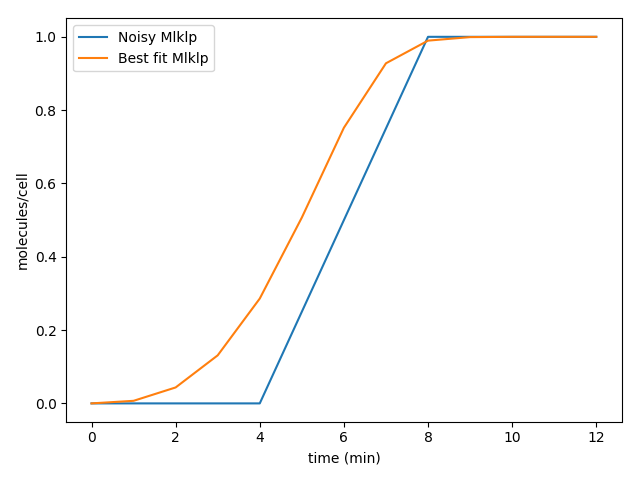
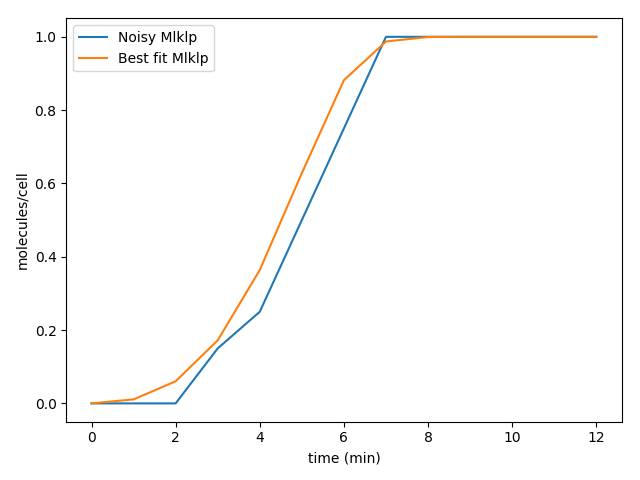
fit not great, cost function 2, rerunning calibration with a20, c8 and wt, 50 particles and 5000 iterations

diff --git a/simplepso/examples/necro_pso_kd.py b/simplepso/examples/necro_pso_kd.py
@@ -56,11 +56,11 @@ a20y = np.array([0.,0., 0.25, 0.5, 0.75, 1., 1., 1., 1., 1., 1., 1., 1.])
 fdx = np.array([0.,   1.,   2.,   3.,   4.,   5.,   6.,   7.,   8.,   9.,  10., 11.,  12.])
 fdy = np.array([0., 0., 0.,0.25, 0.5, 0.75, 1., 1., 1., 1., 1., 1., 1.])
 
-#C8 Data switching at 3
+#C8 Data switching at 4
 c8x = np.array([0.,   1.,   2.,   3.,   4.,   5.,   6.,   7.,   8.,   9.,  10., 11.,  12.])
-c8y = np.array([0.,0., 0.25, 0.5, 0.75, 1., 1., 1., 1., 1., 1., 1., 1.])
+c8y = np.array([0., 0., 0.,0.25, 0.5, 0.75, 1., 1., 1., 1., 1., 1., 1.])
 
-data = collections.OrderedDict([('wt', wty), ('a20', a20y),('fd', fdy), ('c8', c8y)])
+data = collections.OrderedDict([('wt', wty), ('a20', a20y), ('c8', c8y)])
 # data = collections.OrderedDict()
 # data = {'wt': wty, 'a20': a20y, 'td': tdy, 'fd': fdy, 'c8': c8y}
 # data = collections.OrderedDict(sorted(data.items(), key = lambda t:t[1]))
@@ -108,18 +108,18 @@ def display(parameter_2):
     ysim_array11 = result.observables[0]['MLKLa_obs']
     ysim_array22 = result.observables[1]['MLKLa_obs']
     # ysim_array33 = result.observables[2]['MLKLa_obs']
-    ysim_array44 = result.observables[2]['MLKLa_obs']
-    ysim_array55 = result.observables[3]['MLKLa_obs']
+    # ysim_array44 = result.observables[2]['MLKLa_obs']
+    ysim_array55 = result.observables[2]['MLKLa_obs']
 
     # ysim_array = extract_records(solver.yobs, obs_names)
     ysim_norm11 = normalize(ysim_array11)
     ysim_norm22 = normalize(ysim_array22)
     # ysim_norm33 = normalize(ysim_array33)
-    ysim_norm44 = normalize(ysim_array44)
+    # ysim_norm44 = normalize(ysim_array44)
     ysim_norm55 = normalize(ysim_array55)
 
 
-    ysim = collections.OrderedDict([('wt_sim', ysim_norm11), ('a20_sim', ysim_norm22), ('fd_sim', ysim_norm44), ('c8_sim', ysim_norm55)])
+    ysim = collections.OrderedDict([('wt_sim', ysim_norm11), ('a20_sim', ysim_norm22),('c8_sim', ysim_norm55)])
     # ysim = collections.OrderedDict(sorted(ysim.items(), key=lambda t: t[1]))
 
     # solver1.run(param_values)
@@ -133,8 +133,8 @@ def display(parameter_2):
 
     # colors = [cmap(i) for i in np.linspace(0, 1, 5)]
     plt.figure()
-    c = ['red', 'green', 'black', 'orange']
-    d = ['red', 'green', 'black', 'orange']
+    c = ['red', 'green', 'black']
+    d = ['red', 'green', 'black']
     # colors = ['red', 'black', 'green', 'purple', 'orange']
     for i,j,k,l, in zip(data, ysim,c, d):
         # plt.plot(t, ysim_norm_3[:, 0], '-^', linewidth=5, label='Ideal P')
@@ -149,7 +149,7 @@ def display(parameter_2):
         plt.ylabel('molecules/cell')
         plt.xlabel('time (min)')
         plt.tight_layout()
-        plt.savefig('necroptosis_kds_td_65_5000.png', format='png')
+        plt.savefig('necroptosis_kds_td_50_5000.png', format='png')
     plt.show()
     plt.close()
 
@@ -195,8 +195,8 @@ def obj_function(params):
     mlkl_wt = np.array([0.05, 0.05, 0.05, 0.05, 0.05, 0.2, 0.05, 0.05, 0.05, 0.05, 0.05, 0.05, 0.05])
     mlkl_a20= np.array([0.05, 0.05,0.05, 0.2, 0.05, 0.05, 0.05, 0.05, 0.05, 0.05, 0.05, 0.05, 0.05])
     # mlkl_td = np.array([0.05, 0.05, 0.05, 0.05, 0.05, 0.2, 0.05, 0.05, 0.05, 0.05, 0.05, 0.05, 0.05])
-    mlkl_fd = np.array([0.05, 0.05, 0.05, 0.05, 0.2, 0.05, 0.05, 0.05, 0.05, 0.05, 0.05, 0.05, 0.05])
-    mlkl_c8 = np.array([0.05, 0.05, 0.05, 0.2, 0.05, 0.05, 0.05, 0.05, 0.05, 0.05, 0.05, 0.05, 0.05])
+    # mlkl_fd = np.array([0.05, 0.05, 0.05, 0.05, 0.2, 0.05, 0.05, 0.05, 0.05, 0.05, 0.05, 0.05, 0.05])
+    mlkl_c8 = np.array([0.05, 0.05, 0.05, 0.05, 0.2, 0.05, 0.05, 0.05, 0.05, 0.05, 0.05, 0.05])
 
     e1 = np.sum((ydata_norm - ysim_norm1) ** 2 / (mlkl_wt))
     e2 = np.sum((a20y - ysim_norm2) ** 2 / (mlkl_a20))
@@ -204,7 +204,7 @@ def obj_function(params):
     e4 = np.sum((fdy - ysim_norm4) ** 2 / (mlkl_fd))
     e5 = np.sum((c8y - ysim_norm5) ** 2 / (mlkl_c8))
 
-    error = e1 + e2 + e4 + e5
+    error = e1 + e2 + e5
     return error,
 
 

diff --git a/simplepso/examples/new_necro_pso_run.py b/simplepso/examples/new_necro_pso_run.py
@@ -13,43 +13,83 @@ from necro_pso_kd import display
 
 
 pars = np.array([
--3.000000000000000000e+00,
--5.190463909336157755e+00,
--6.000000000000000000e+00,
--3.033085665199291014e+00,
--4.616053825158105361e+00,
--6.356697247845557897e+00,
--2.168782791959026124e+00,
--3.058696627754011299e+00,
--3.205201740640312824e+00,
--3.000000000000000000e+00,
--2.098242182818893742e+00,
-1.251276896008965078e+00 ,
--3.360171520761877861e+00,
--4.443801585952002142e+00,
--3.002469573770719879e+00,
--1.516034355984396509e+00,
--3.999999762801250913e+00,
--4.253324882630691306e+00,
--3.307450965106528251e+00,
-1.542167033113567953e+00 ,
-1.958004696407286138e+00 ,
--8.009639890723171618e+00,
--2.892524316001871654e+00,
--1.688715707452753456e+00,
--8.332899618496059091e+00,
-5.613842426630625271e-01 ,
--3.393485506662298756e-01,
--2.384168876963753902e+00,
--1.841615835076017449e+00,
--5.609768825686679783e+00,
--1.580335592915386167e+00,
-8.935245594185757811e-01 ,
-1.000000000000000000e+00 ,
-0.000000000000000000e+00 ,
--3.454070976893416578e+00,
--5.942968322097673450e+00,
-3.362295758042641580e-01])
+-3.000000000000000000e+00 ,
+-1.252317339283543607e+00 ,
+-5.082789313249298502e+00 ,
+-3.003189290936787437e+00 ,
+-3.780149772707062983e+00 ,
+-3.309059289555452033e+00 ,
+-6.000000000000000000e+00 ,
+-3.000072740009938066e+00 ,
+-4.136077970611998111e+00 ,
+-3.034915454986220507e+00 ,
+-3.038551754556173101e+00 ,
+1.563556082282690163e+00  ,
+-7.266248364566838092e+00 ,
+-3.997605834854700113e+00 ,
+-3.004439232863266973e+00 ,
+-3.974786922462485439e+00 ,
+-3.999999999718301780e+00 ,
+-4.817018895571956172e+00 ,
+-2.109962334946007267e+00 ,
+1.418008368291111543e+00  ,
+-4.311788145896281454e-01 ,
+-5.877428636327199918e+00 ,
+-3.311136310426499474e+00 ,
+-1.796026494183759370e+00 ,
+-8.485134358575241009e+00 ,
+-2.422510443920192991e+00 ,
+-2.062986040532480914e+00 ,
+-3.019018272317760765e+00 ,
+-1.819827882296911836e+00 ,
+-5.151351274439876171e+00 ,
+-3.351476569402714212e+00 ,
+1.768521394307117189e+00  ,
+9.990576123462765468e-01  ,
+0.000000000000000000e+00  ,
+-1.717319136311646899e+00 ,
+-5.396518489284537701e+00 ,
+1.889321233519191789e+00
+])
+
+# pars = np.array([
+# -3.000000000000000000e+00,
+# -5.190463909336157755e+00,
+# -6.000000000000000000e+00,
+# -3.033085665199291014e+00,
+# -4.616053825158105361e+00,
+# -6.356697247845557897e+00,
+# -2.168782791959026124e+00,
+# -3.058696627754011299e+00,
+# -3.205201740640312824e+00,
+# -3.000000000000000000e+00,
+# -2.098242182818893742e+00,
+# 1.251276896008965078e+00 ,
+# -3.360171520761877861e+00,
+# -4.443801585952002142e+00,
+# -3.002469573770719879e+00,
+# -1.516034355984396509e+00,
+# -3.999999762801250913e+00,
+# -4.253324882630691306e+00,
+# -3.307450965106528251e+00,
+# 1.542167033113567953e+00 ,
+# 1.958004696407286138e+00 ,
+# -8.009639890723171618e+00,
+# -2.892524316001871654e+00,
+# -1.688715707452753456e+00,
+# -8.332899618496059091e+00,
+# 5.613842426630625271e-01 ,
+# -3.393485506662298756e-01,
+# -2.384168876963753902e+00,
+# -1.841615835076017449e+00,
+# -5.609768825686679783e+00,
+# -1.580335592915386167e+00,
+# 8.935245594185757811e-01 ,
+# 1.000000000000000000e+00 ,
+# 0.000000000000000000e+00 ,
+# -3.454070976893416578e+00,
+# -5.942968322097673450e+00,
+# 3.362295758042641580e-01])
 
 # pars = np.array([-3.90543513, -3.84631005, -2.93469037, -4.97554492, -5.5154541 , -6.08242418,
 #                  -2.86229483, -6.80280754, -3.89629432, -4.91123185, -2.8854796 , -0.33340022,

diff --git a/simplepso/examples/necro_pso.py b/simplepso/examples/necro_pso.py
@@ -44,7 +44,7 @@ norm_data = normalize(ysim_array)
 
 #make an array for
 x = np.array([0.,   1.,   2.,   3.,   4.,   5.,   6.,   7.,   8.,   9.,  10., 11.,  12.])
-y = np.array([0., 0., 0., 0., 0., 0.25, 0.5, 0.75, 1., 1., 1., 1., 1.])
+y = np.array([0., 0., 0., 0., 0.25, 0.5, 0.75, 1., 1., 1., 1., 1.,1.])
 
 mlkl_obs_total = model.parameters['MLKLa_0'].value
 mlkl_data = np.array([2000.0, 180.0, mlkl_obs_total])
